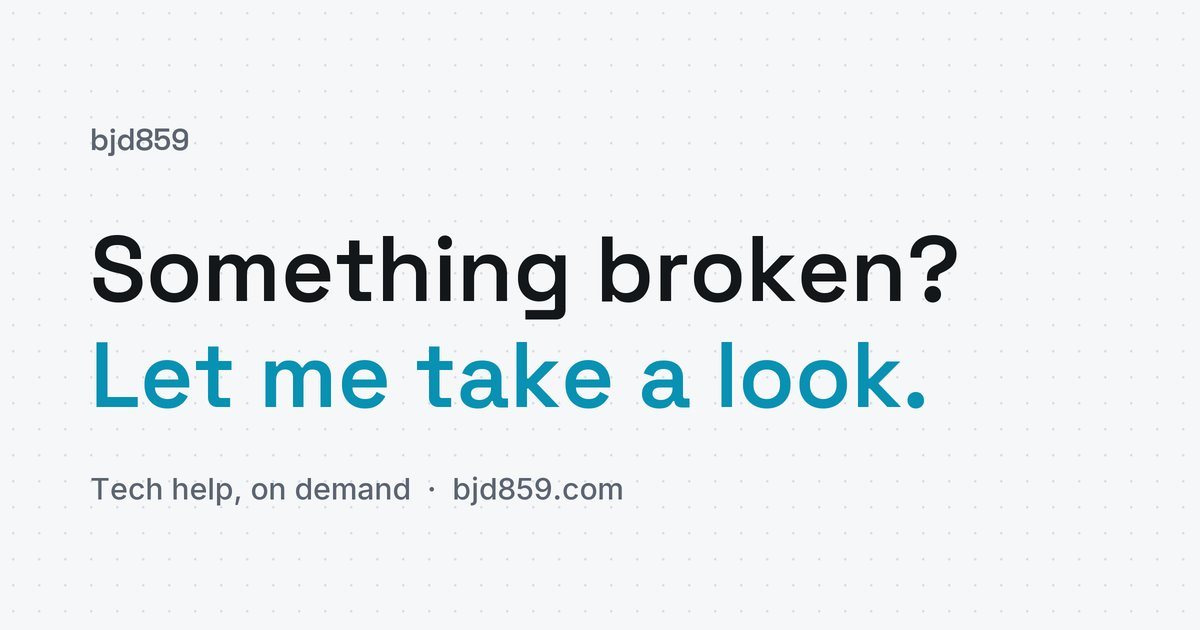
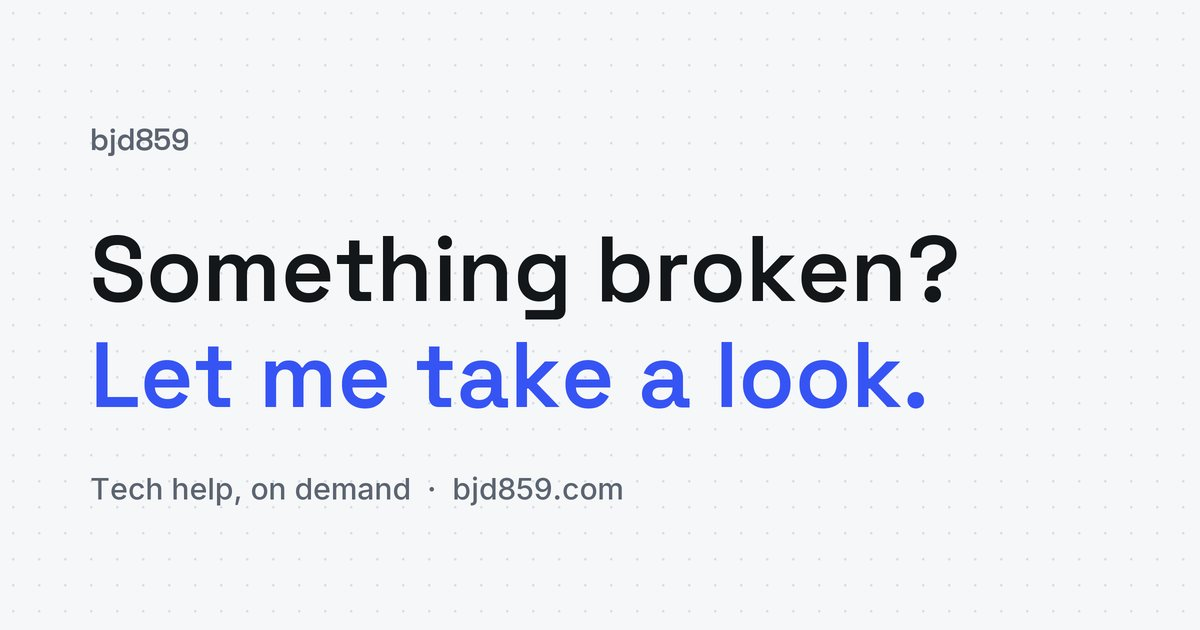
Give each service its own colour and two hero phrases
- Four service colours (blue, orange, violet, green), all AA on white and
  the page background
- Cards and each service page's button, focus ring, checkboxes and
  cursor highlight use that service's colour
- Hero rotates eight pairs, two per card, each answer in its card's colour
- og-image answer line now tech blue

Changed region(s): [[0.0617, 0.5429, 0.7708, 0.6635]]

diff --git a/assets/css/styles.css b/assets/css/styles.css
@@ -25,21 +25,23 @@
   --text-muted: #5b6470;
   --border: #e3e6ea;
   --dot: #d9dee4;
-  --accent-book: #3654f4;
-  --accent-book-dark: #2542c9;
-  --accent-contact: #a85a09;
-  --accent-contact-dark: #8a4907;
   --status: #1fa15a;
   --status-glow: rgb(31 161 90 / 0.45);
   --status-glow-end: rgb(31 161 90 / 0);
   --shadow: 0 8px 24px rgb(20 23 26 / 0.08);
 
-  /* Hero bottom-line colours, one per headline pair */
-  --tone-1: #0891b2;
-  --tone-2: #4d7c0f;
-  --tone-3: #ea580c;
-  --tone-4: #1e3a8a;
-  --tone-5: #7c3aed;
+  /* One colour per service; cards, hero answers and form pages share them */
+  --c-tech: #3654f4;
+  --c-tech-dark: #2542c9;
+  --c-install: #a85a09;
+  --c-install-dark: #8a4907;
+  --c-web: #7c3aed;
+  --c-web-dark: #6d28d9;
+  --c-else: #15803d;
+  --c-else-dark: #166534;
+
+  --accent: var(--c-tech);
+  --accent-dark: var(--c-tech-dark);
 
   --font-display: "Space Grotesk", system-ui, sans-serif;
   --font-body: "Inter", system-ui, sans-serif;
@@ -65,11 +67,32 @@
 
   --radius: 14px;
   --radius-sm: 8px;
-  --focus: 2px solid var(--accent-book);
+  --focus-width: 2px;
   --dot-gap: 26px;
   --glow-radius: 160px;
   --nudge: 32px;
   --ease: 0.15s ease;
+}
+
+/* Service themes: set on a card, or on <body> for that service's page */
+.theme-tech {
+  --accent: var(--c-tech);
+  --accent-dark: var(--c-tech-dark);
+}
+
+.theme-install {
+  --accent: var(--c-install);
+  --accent-dark: var(--c-install-dark);
+}
+
+.theme-web {
+  --accent: var(--c-web);
+  --accent-dark: var(--c-web-dark);
+}
+
+.theme-else {
+  --accent: var(--c-else);
+  --accent-dark: var(--c-else-dark);
 }
 
 /* Base */
@@ -101,7 +124,7 @@ a {
 }
 
 :focus-visible {
-  outline: var(--focus);
+  outline: var(--focus-width) solid var(--accent);
   outline-offset: 2px;
 }
 
@@ -133,7 +156,7 @@ a {
 }
 
 .dot-grid-highlight {
-  background-image: radial-gradient(circle, var(--accent-book) 1.5px, transparent 1.5px);
+  background-image: radial-gradient(circle, var(--accent) 1.5px, transparent 1.5px);
   opacity: 0.55;
   mask-image: radial-gradient(
     circle var(--glow-radius) at var(--x, 50%) var(--y, 50%),
@@ -257,13 +280,12 @@ h1 {
 }
 
 .hero__line--bottom {
-  color: var(--tone-1);
+  color: var(--c-tech);
 }
 
-.hero__line[data-tone="2"] { color: var(--tone-2); }
-.hero__line[data-tone="3"] { color: var(--tone-3); }
-.hero__line[data-tone="4"] { color: var(--tone-4); }
-.hero__line[data-tone="5"] { color: var(--tone-5); }
+.hero__line[data-tone="install"] { color: var(--c-install); }
+.hero__line[data-tone="web"] { color: var(--c-web); }
+.hero__line[data-tone="else"] { color: var(--c-else); }
 
 .hero.is-cycling .hero__line {
   opacity: 0;
@@ -332,6 +354,7 @@ h1 {
 .card__tag {
   display: block;
   margin-bottom: var(--space-3);
+  color: var(--accent);
   font-family: var(--font-display);
   font-size: var(--text-xs);
   font-weight: 600;
@@ -355,12 +378,13 @@ h1 {
   margin-top: var(--space-4);
   font-size: var(--text-base);
   font-weight: 600;
+  color: var(--accent-dark);
 }
 
-.card--book .card__tag { color: var(--accent-book); }
-.card--book .card__go { color: var(--accent-book-dark); }
-.card--form .card__tag { color: var(--accent-contact); }
-.card--form .card__go { color: var(--accent-contact-dark); }
+.card:hover,
+.card:focus-visible {
+  border-color: var(--accent);
+}
 
 /* Panels (sub pages) */
 .panel {
@@ -475,7 +499,7 @@ h1 {
   width: 1.125rem;
   height: 1.125rem;
   margin: 0;
-  accent-color: var(--accent-contact);
+  accent-color: var(--accent);
 }
 
 .field__hint {
@@ -505,7 +529,6 @@ h1 {
 .field input:focus-visible,
 .field select:focus-visible,
 .field textarea:focus-visible {
-  outline-color: var(--accent-contact);
   outline-offset: 1px;
 }
 
@@ -528,7 +551,7 @@ h1 {
   font-size: var(--text-base);
   font-weight: 600;
   color: var(--surface);
-  background: var(--accent-contact);
+  background: var(--accent);
   border: none;
   border-radius: var(--radius-sm);
   cursor: pointer;
@@ -536,7 +559,7 @@ h1 {
 }
 
 .btn:hover {
-  background: var(--accent-contact-dark);
+  background: var(--accent-dark);
 }
 
 .btn:focus-visible {

diff --git a/index.html b/index.html
@@ -53,28 +53,28 @@
     <p class="lede">Quick troubleshooting, updates, and tech help. Pick the option that fits what you need.</p>
 
     <div class="choices">
-      <a class="card card--book" href="/book/">
+      <a class="card theme-tech" href="/book/">
         <span class="card__tag">Quick &amp; easy</span>
         <h2 class="card__title">Tech questions</h2>
         <p class="card__text">Got tech questions? Need someone to explain what CGNAT is? Pick a time and let's get the party started.</p>
         <span class="card__go">Pick a time →</span>
       </a>
 
-      <a class="card card--form" href="/install/">
+      <a class="card theme-install" href="/install/">
         <span class="card__tag">Hands-on</span>
         <h2 class="card__title">Installation &amp; equipment</h2>
         <p class="card__text">New gear to set up, install or choose? Tell me about the job, your budget and timing, and I'll follow up with a quote.</p>
         <span class="card__go">Describe the job →</span>
       </a>
 
-      <a class="card card--form" href="/websites/">
+      <a class="card theme-web" href="/websites/">
         <span class="card__tag">New or redesign</span>
         <h2 class="card__title">Websites</h2>
         <p class="card__text">Need a new website or a refresh of the one you have? Fill in a short intake form and I'll be in touch.</p>
         <span class="card__go">Start the intake →</span>
       </a>
 
-      <a class="card card--form" href="/contact/">
+      <a class="card theme-else" href="/contact/">
         <span class="card__tag">Contact me</span>
         <h2 class="card__title">Something else</h2>
         <p class="card__text">Larger jobs, specific inquiries, or anything that needs some real attention. Drop a request for follow-up.</p>

diff --git a/assets/js/line-swap.js b/assets/js/line-swap.js
@@ -7,12 +7,16 @@
   if (!hero || !topEl || !bottomEl) return;
   if (window.matchMedia("(prefers-reduced-motion: reduce)").matches) return;
 
+  // Two pairs per service card; tone matches that card's colour.
   const pairs = [
-    { top: "Something broken?", bottom: "Let me take a look." },
-    { top: "Disobedient printer?", bottom: "Not for long." },
-    { top: "Tech questions?", bottom: "Human answers." },
-    { top: "Setup woes?", bottom: "Taken care of." },
-    { top: "Stuck on something?", bottom: "Make it my problem." },
+    { top: "Something broken?", bottom: "Let me take a look.", tone: "tech" },
+    { top: "Disobedient printer?", bottom: "Not for long.", tone: "install" },
+    { top: "No website yet?", bottom: "Let's fix that.", tone: "web" },
+    { top: "Stuck on something?", bottom: "Make it my problem.", tone: "else" },
+    { top: "Tech questions?", bottom: "Human answers.", tone: "tech" },
+    { top: "Setup woes?", bottom: "Taken care of.", tone: "install" },
+    { top: "Site stuck in 2009?", bottom: "Time for a refresh.", tone: "web" },
+    { top: "Not on the list?", bottom: "Ask anyway.", tone: "else" },
   ];
 
   const ENTER = 450;
@@ -48,7 +52,7 @@
     const pair = pairs[index];
     topEl.textContent = pair.top;
     bottomEl.textContent = pair.bottom;
-    bottomEl.dataset.tone = String(index + 1);
+    bottomEl.dataset.tone = pair.tone;
 
     place(topEl, "left");
     place(bottomEl, "right");

diff --git a/install/index.html b/install/index.html
@@ -24,7 +24,7 @@
   <link rel="stylesheet" href="/assets/css/styles.css">
   <script src="/assets/js/cursor-fx.js" defer></script>
 </head>
-<body>
+<body class="theme-install">
   <a class="skip-link" href="#main">Skip to content</a>
   <div class="dot-grid" aria-hidden="true"></div>
   <div class="dot-grid-highlight" aria-hidden="true"></div>

diff --git a/contact/index.html b/contact/index.html
@@ -24,7 +24,7 @@
   <link rel="stylesheet" href="/assets/css/styles.css">
   <script src="/assets/js/cursor-fx.js" defer></script>
 </head>
-<body>
+<body class="theme-else">
   <a class="skip-link" href="#main">Skip to content</a>
   <div class="dot-grid" aria-hidden="true"></div>
   <div class="dot-grid-highlight" aria-hidden="true"></div>

diff --git a/websites/index.html b/websites/index.html
@@ -24,7 +24,7 @@
   <link rel="stylesheet" href="/assets/css/styles.css">
   <script src="/assets/js/cursor-fx.js" defer></script>
 </head>
-<body>
+<body class="theme-web">
   <a class="skip-link" href="#main">Skip to content</a>
   <div class="dot-grid" aria-hidden="true"></div>
   <div class="dot-grid-highlight" aria-hidden="true"></div>

diff --git a/book/index.html b/book/index.html
@@ -25,7 +25,7 @@
   <script src="/assets/js/cursor-fx.js" defer></script>
   <script src="/assets/js/book.js" defer></script>
 </head>
-<body>
+<body class="theme-tech">
   <a class="skip-link" href="#main">Skip to content</a>
   <div class="dot-grid" aria-hidden="true"></div>
   <div class="dot-grid-highlight" aria-hidden="true"></div>
